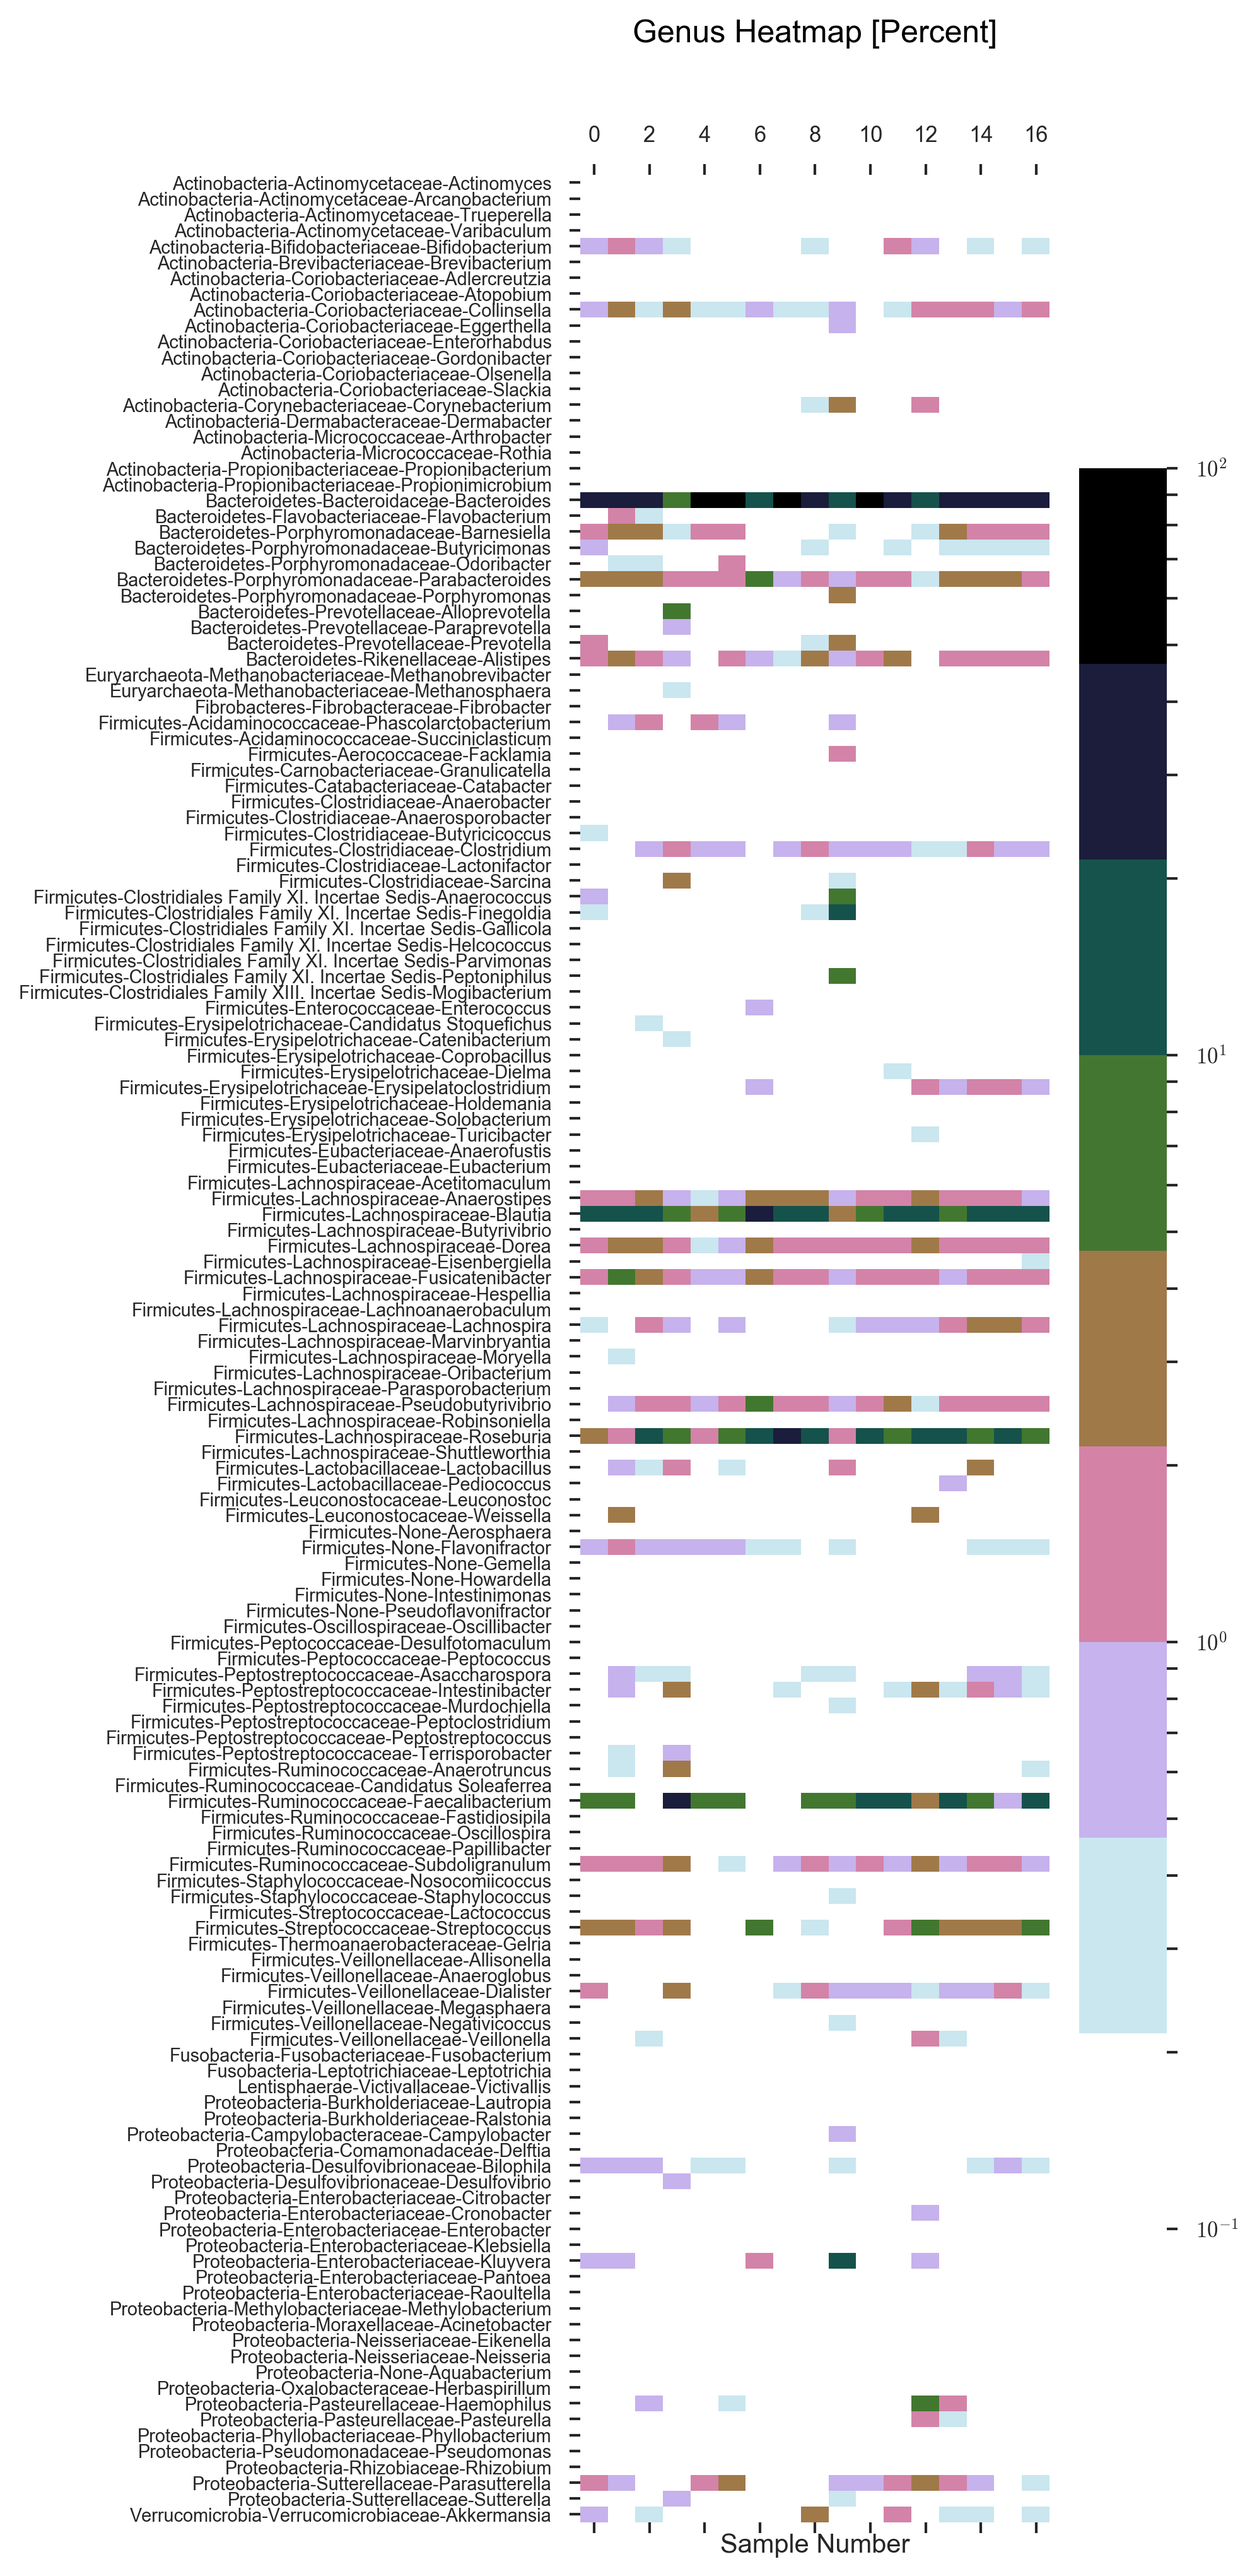
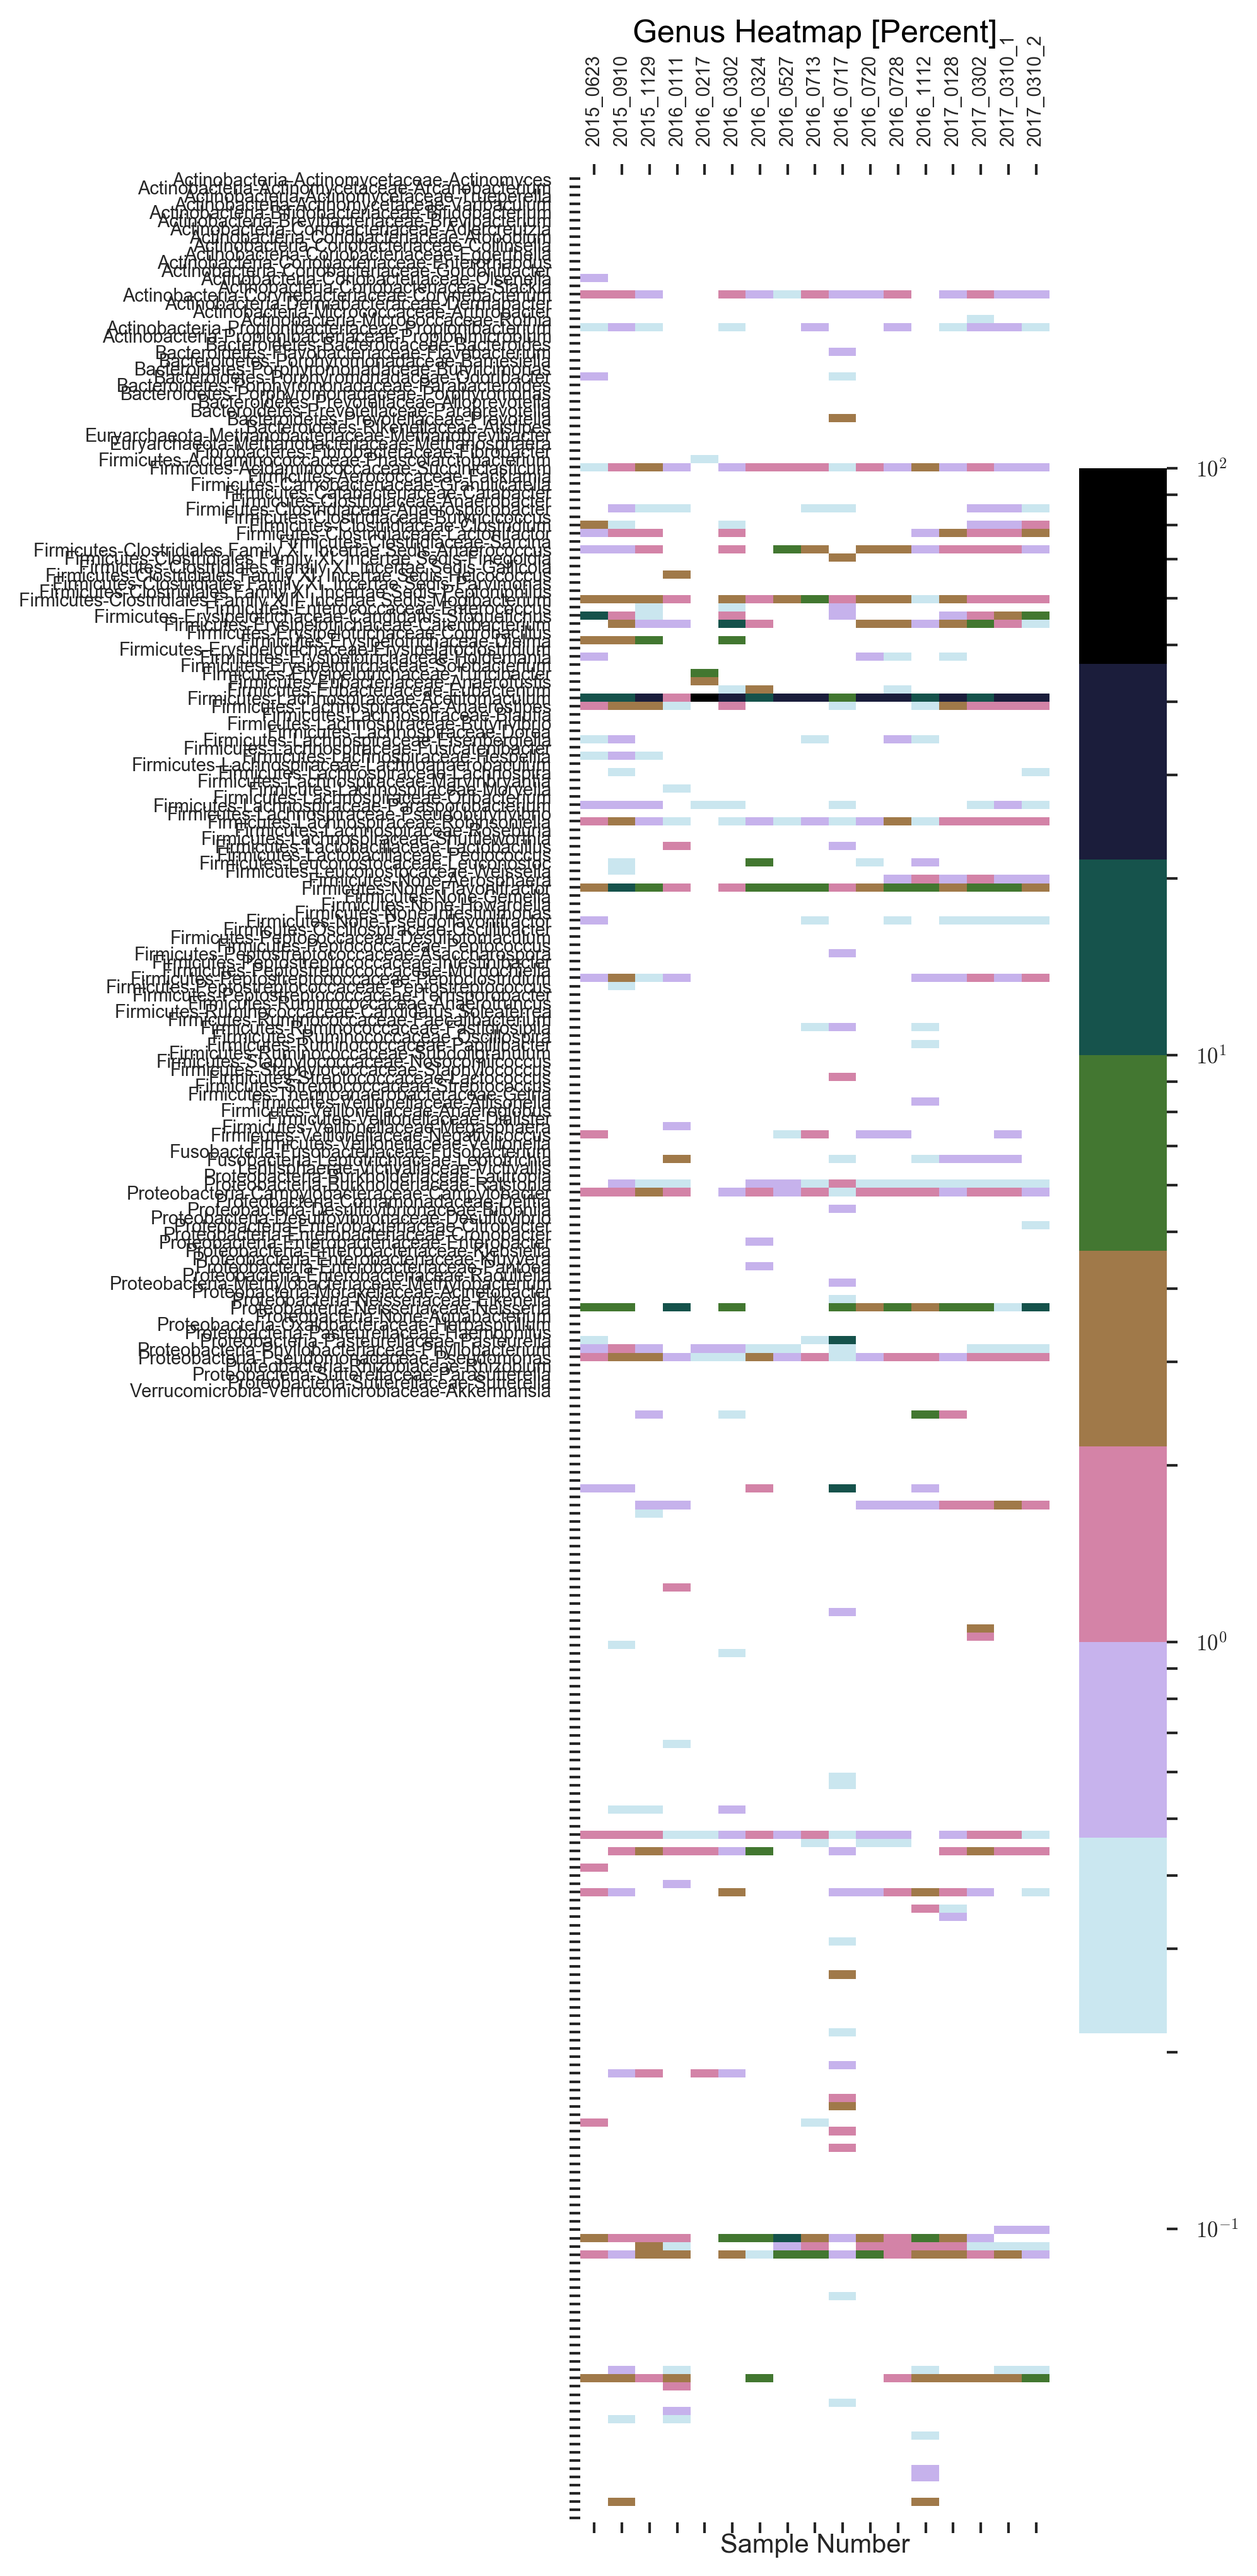
update

Changed region(s): [[0.0311, 0.0622, 0.8399, 0.9956], [0.4666, 0.0311, 0.8399, 0.0622], [0.56, 0.7778, 0.5911, 0.8089]]

diff --git a/code/main.py b/code/main.py
@@ -280,6 +280,11 @@ def ubiomeAnalysis():
     samplingTime = [samplingTime[i] for i in order]
     rr = [rr[i] for i in order]
     
+    # Sample names:
+    sampleNames = []
+    for k in fn:
+        sampleNames.append(os.path.basename(k[:-5]))
+    
     phyla = []
     for f in fn:
         r = open(f).read()
@@ -484,17 +489,19 @@ def ubiomeAnalysis():
     plt.matshow(r, aspect='auto', cmap=matplotlib.cm.get_cmap('Blues', 9), norm=matplotlib.colors.LogNorm(vmin=0.1, vmax=100)); plt.colorbar()
     plt.yticks(np.arange(r.shape[0]), genii, size='xx-small')
     plt.xlabel('Sample Number'); plt.grid(False)
+    plt.xticks(np.arange(r.shape[1]), sampleNames, rotation = 'vertical', size='xx-small')
     plt.title('Genus Heatmap [Percent]')
     plt.savefig(os.path.join(baseDir, 'genus heatmap.png'))
-    plt.close()
+    plt.close('all')
     
     plt.clf() 
-    plt.matshow(r, aspect='auto', cmap=matplotlib.cm.get_cmap('cubehelix_r', 9), norm=matplotlib.colors.LogNorm(vmin=0.1, vmax=100)); plt.colorbar()
+    plt.matshow(r, aspect='auto', cmap=matplotlib.cm.get_cmap('afmhot_r', 9), norm=matplotlib.colors.LogNorm(vmin=0.1, vmax=100)); plt.colorbar()
     plt.yticks(np.arange(r.shape[0]), genii, size='xx-small')
     plt.xlabel('Sample Number'); plt.grid(False)
+    plt.xticks(np.arange(r.shape[1]), sampleNames, rotation = 'vertical', size='xx-small')
     plt.title('Genus Heatmap [Percent]')
     plt.savefig(os.path.join(baseDir, 'genus heatmap - alt colormap.png'))
-    plt.close()
+    plt.close('all')
     
     plt.clf()
     almPlot = r - np.median(r, axis=1).reshape(r.shape[0],1)
@@ -688,6 +695,24 @@ def ubiomeAnalysis():
         for kk in species:
             r.append(p[kk][k])
     r = np.reshape(r, (len(species), N), order='F')   
+    
+    plt.clf() 
+    plt.matshow(r, aspect='auto', cmap=matplotlib.cm.get_cmap('Blues', 9), norm=matplotlib.colors.LogNorm(vmin=0.1, vmax=100)); plt.colorbar()
+    plt.yticks(np.arange(r.shape[0]), species, size='xx-small')
+    plt.xlabel('Sample Number'); plt.grid(False)
+    plt.xticks(np.arange(r.shape[1]), sampleNames, rotation = 'vertical', size='xx-small')
+    plt.title('Specie Heatmap [Percent]')
+    plt.savefig(os.path.join(baseDir, 'specie heatmap.png'))
+    plt.close()    
+    
+    plt.clf() 
+    plt.matshow(r, aspect='auto', cmap=matplotlib.cm.get_cmap('cubehelix_r', 9), norm=matplotlib.colors.LogNorm(vmin=0.1, vmax=100)); plt.colorbar()
+    plt.yticks(np.arange(r.shape[0]), genii, size='xx-small')
+    plt.xlabel('Sample Number'); plt.grid(False)
+    plt.xticks(np.arange(r.shape[1]), sampleNames, rotation = 'vertical', size='xx-small')
+    plt.title('Genus Heatmap [Percent]')
+    plt.savefig(os.path.join(baseDir, 'genus heatmap - alt colormap.png'))
+    plt.close()    
     
 
     # Show pathogens
